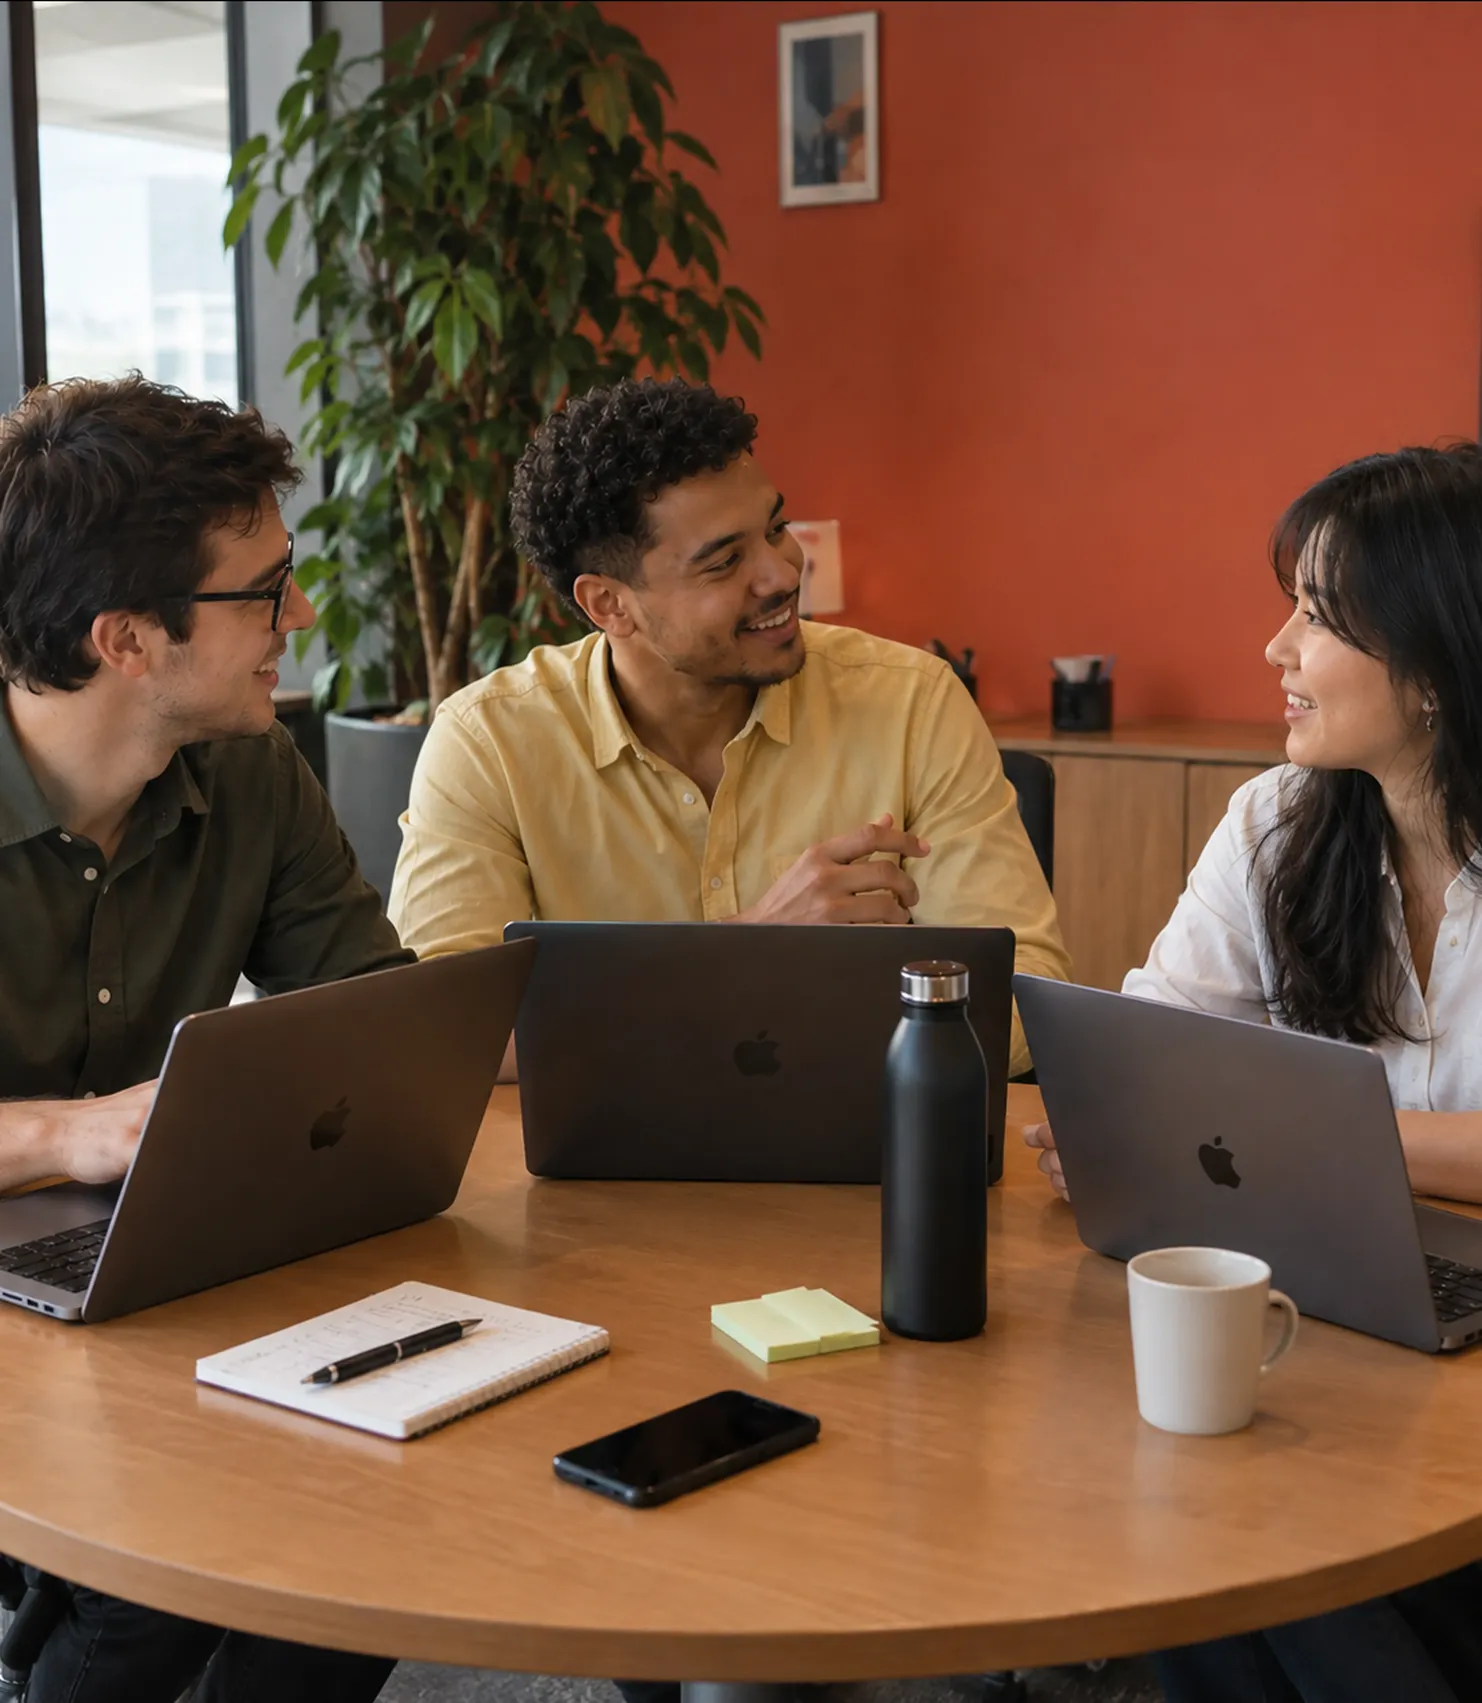
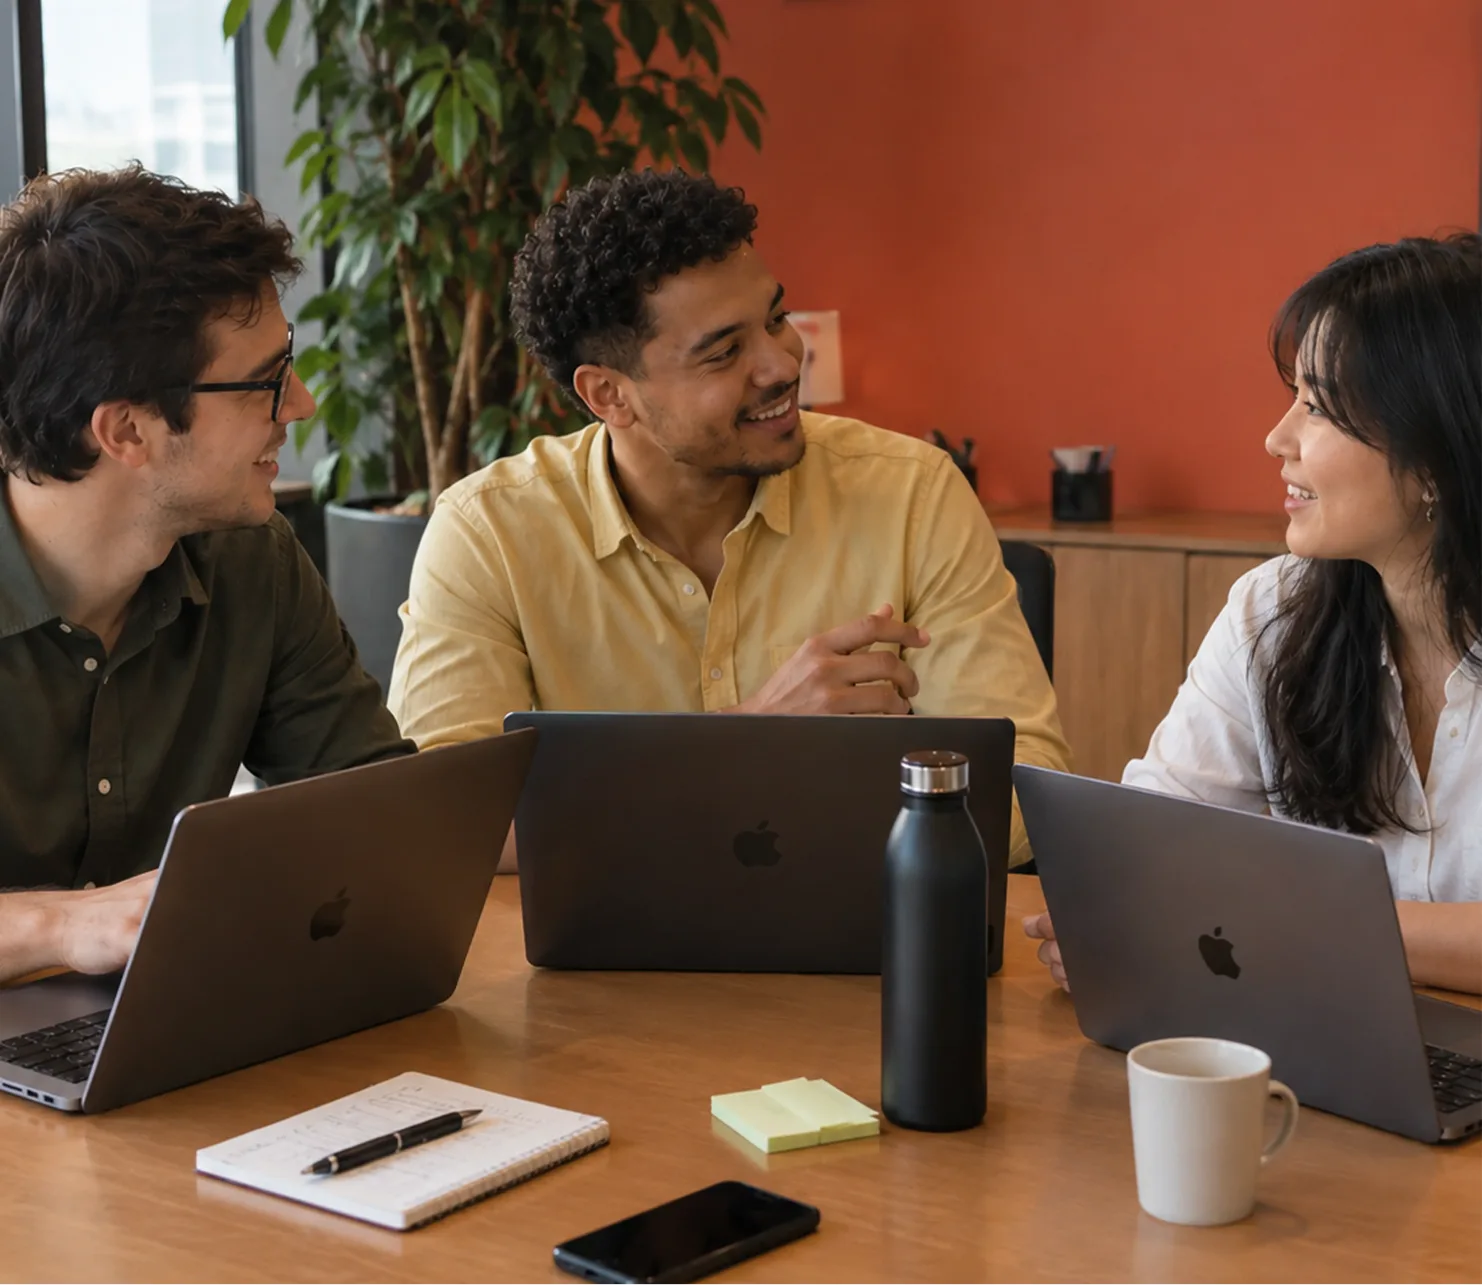
feat(site): fotos do hero e de "Cuidar da saúde" em 2x, no enquadramento do Figma

diff --git a/resources/views/pages/home.blade.php b/resources/views/pages/home.blade.php
@@ -33,7 +33,7 @@
                 </x-button>
             </div>
 
-            <div class="fm-reveal-scale fm-in fm-zoom relative w-full overflow-hidden lg:h-[584px] lg:w-[674px] lg:shrink-0">
+            <div class="fm-reveal-scale fm-in fm-zoom relative aspect-[674/584] w-full overflow-hidden lg:w-[674px] lg:shrink-0">
                 <img src="{{ asset('img/home/hero.webp') }}"
                      alt="Equipe reunida em frente ao computador durante uma sessão de consultoria"
                      class="size-full object-cover"
